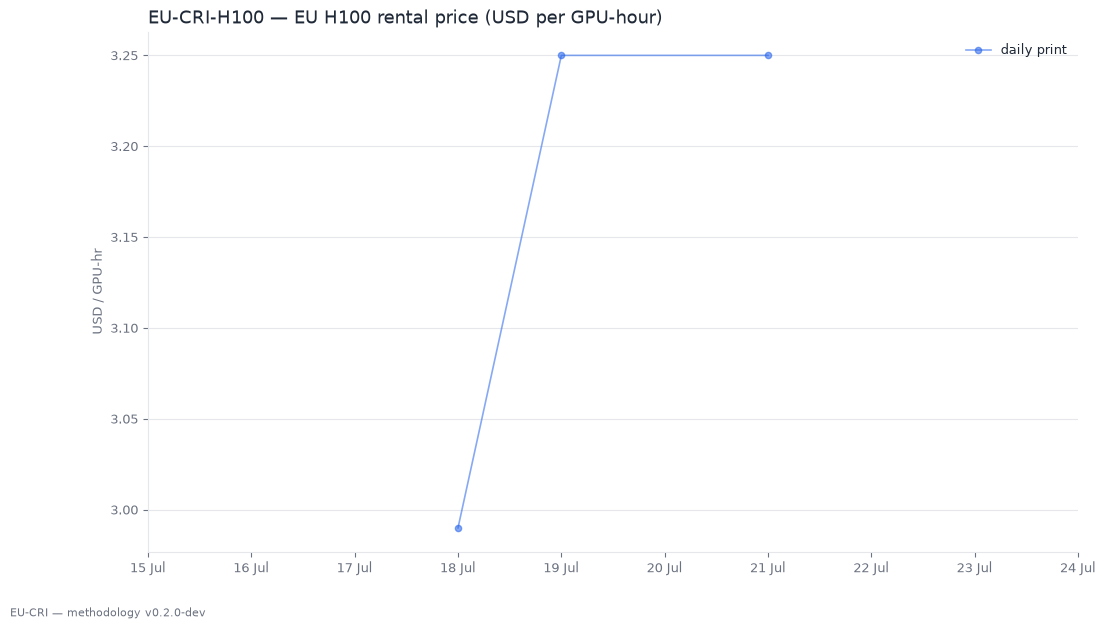
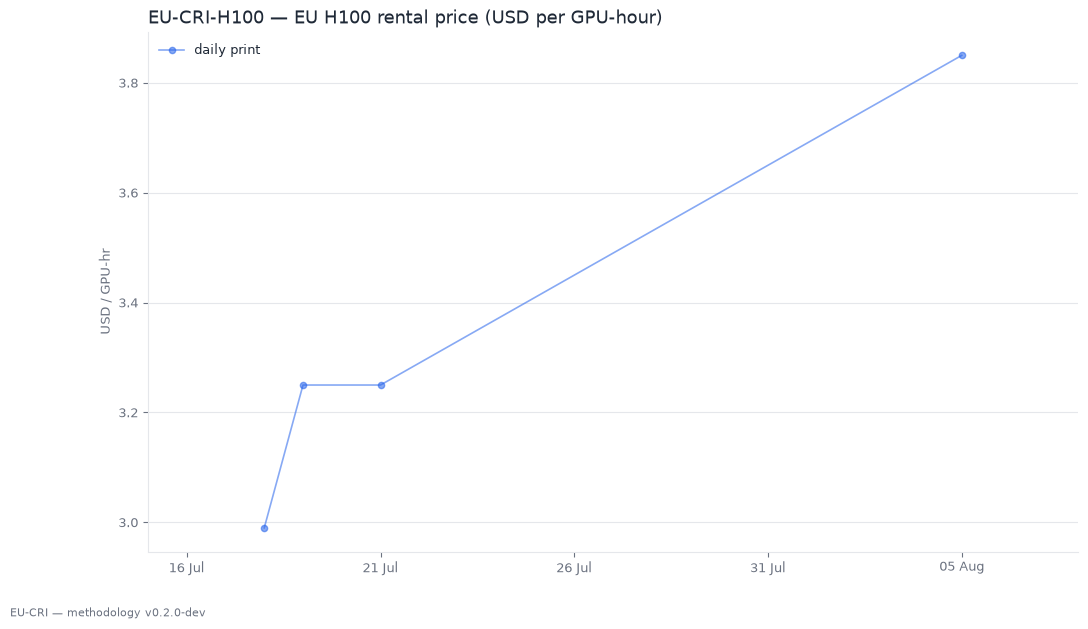
daily: 2026-08-05

diff --git a/site/substack_post.md b/site/substack_post.md
@@ -1,8 +1,8 @@
-# EU-CRI weekly — 2026-07-21
+# EU-CRI weekly — 2026-08-05
 
-**EU-CRI-H100: $3.25 / GPU-hour** (€2.85 at ECB 1.1418 on 2026-07-21)
+**EU-CRI-H100: $3.85 / GPU-hour** (€3.33 at ECB 1.1554 on 2026-08-05)
 
-Week-over-week: n/a · Month-over-month: n/a · Constituents: 6 (1 executable-quote)
+Week-over-week: +18.5% · Month-over-month: n/a · Constituents: 5 (0 executable-quote)
 
 <!-- EDITORIAL: lead commentary -->
 
@@ -10,12 +10,11 @@ Dispersion: cheapest constituent $2.16, dearest $7.36 — a 3.4x spread for the 
 
 | provider | tier | $/GPU-hr | weight |
 |---|---|---|---|
-| seeweb | list | $2.16 | 15 |
-| runpod | executable | $2.99 | 25 |
-| datacrunch | list | $3.25 | 15 |
-| nebius | list | $3.85 | 15 |
-| gcp | list | $5.44 | 15 |
-| aws | list | $7.36 | 15 |
+| seeweb | list | $2.16 | 20 |
+| datacrunch | list | $3.25 | 20 |
+| nebius | list | $3.85 | 20 |
+| gcp | list | $5.44 | 20 |
+| aws | list | $7.36 | 20 |
 
 ![EU-CRI-H100 headline](charts/headline_7d.png)
 ![Constituent dispersion](charts/dispersion.png)
